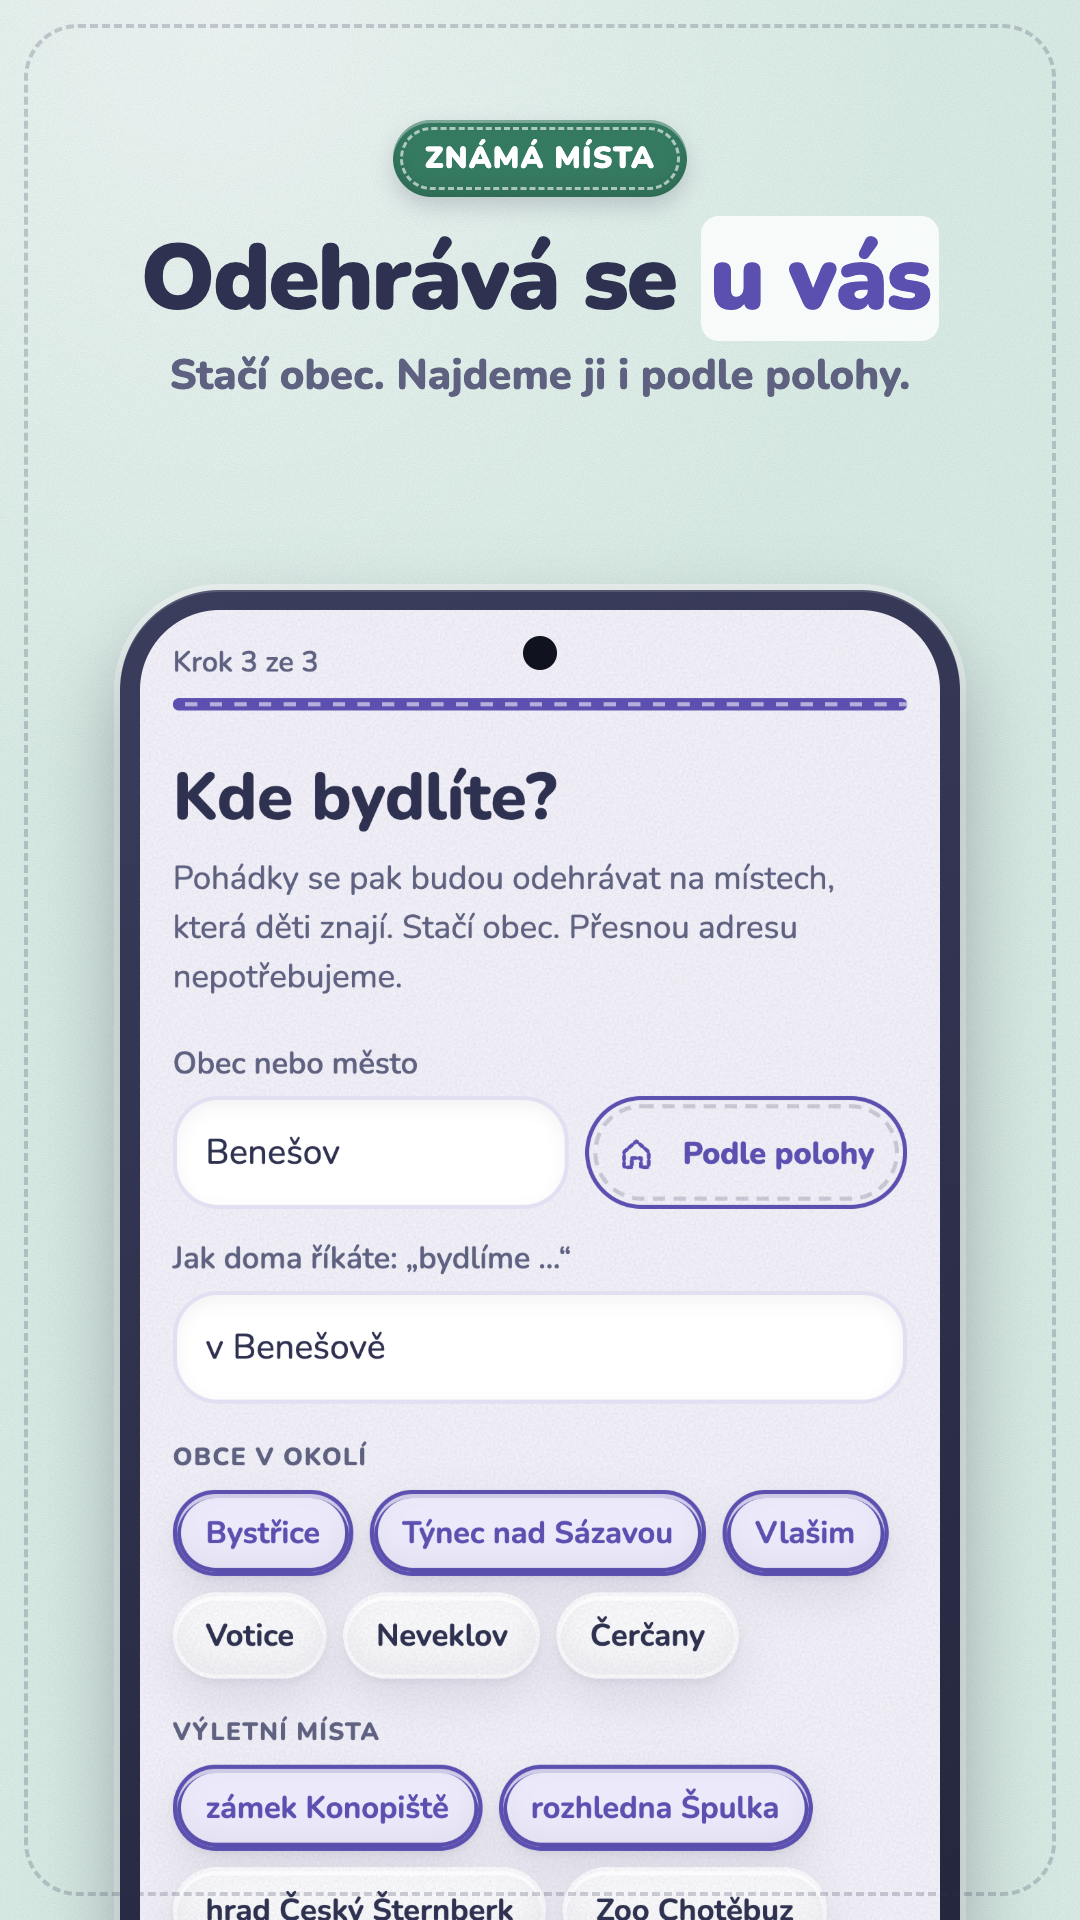
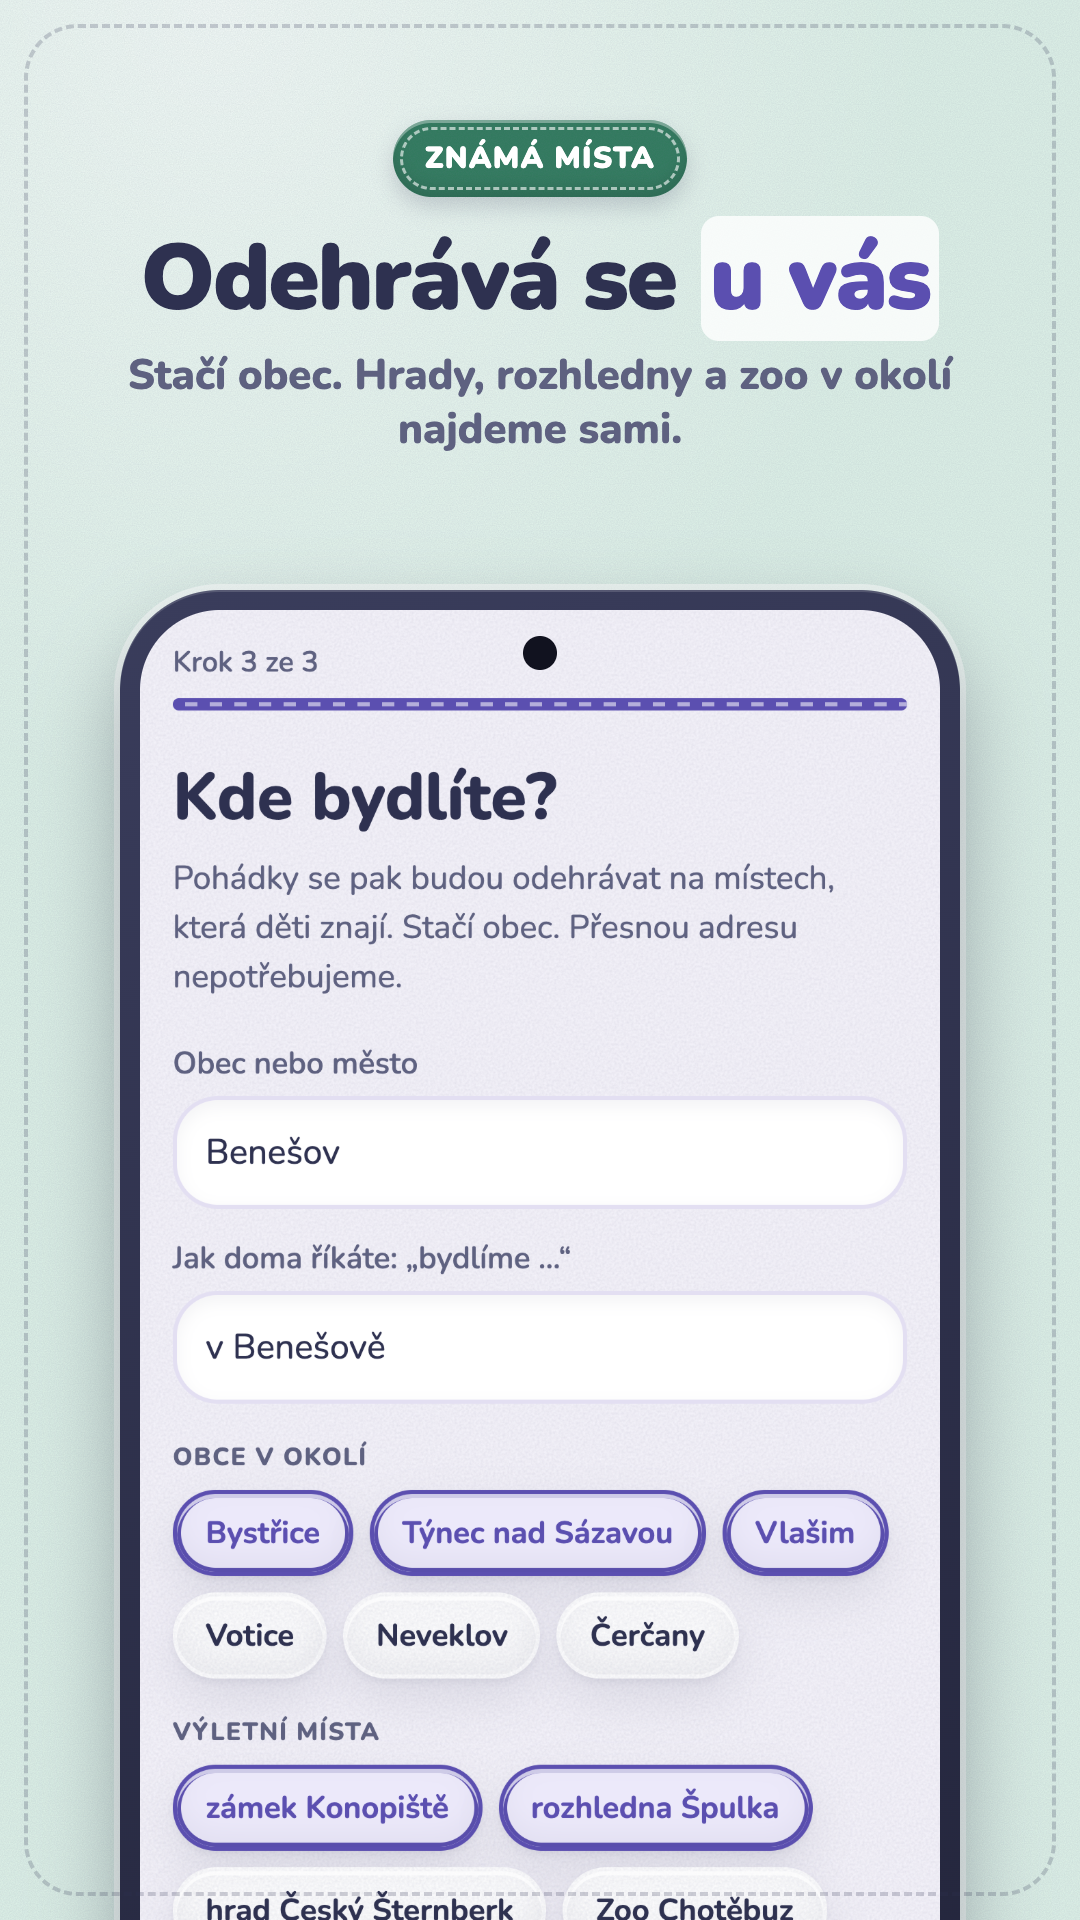
Android 1.25 (versionCode 27): bez polohy, instalace i na tablety
Google Play nepustil 1.24 ke kontrole: aplikace pro děti do 13 let nesmí mít polohu na pozadí
a na Androidu 7–9 se tak počítá i přibližná poloha. Aplikace pro Android polohu nemá
(oprávnění odebraná i z doplňků), tlačítko Podle polohy zůstává na iPhonu a webu.
Zámek na výšku už nevyžaduje hardware na výšku, takže aplikace jde zase na tablety.
Ochrana osobních údajů 4.2, náhled bydliště pro Google Play bez polohy.

Changed region(s): [[0.1222, 0.1875, 0.8861, 0.25], [0.5194, 0.5625, 0.8556, 0.625]]

diff --git a/ochrana-osobnich-udaju/index.html b/ochrana-osobnich-udaju/index.html
@@ -43,13 +43,13 @@
   <main class="terms">
     <div class="wrap wrap-narrow">
       <h1>Ochrana osobních údajů</h1>
-      <p class="meta">Verze 4.1 · účinné od 17. 11. 2026</p>
+      <p class="meta">Verze 4.2 · účinné od 19. 11. 2026</p>
 
       <section class="summary" aria-labelledby="kratce">
         <h2 id="kratce">Krátce a lidsky</h2>
         <ul>
           <li>Chceme jen to, co pohádka potřebuje: křestní jméno, věk, pár oblíbených věcí a obec. Příjmení, přesnou adresu ani fotky nechceme.</li>
-          <li>Obec můžete nechat najít podle polohy telefonu (tlačítko <i>Podle polohy</i>). Teprve po klepnutí a s vaším povolením si aplikace zjistí přibližnou polohu, zaokrouhlí ji asi na 100 metrů a pošle ji jen OpenStreetMap, aby zjistila název obce. Polohu neukládáme, zůstane jen obec.</li>
+          <li>V aplikaci pro iPhone můžete obec nechat najít podle polohy telefonu (tlačítko <i>Podle polohy</i>). Aplikace pro Android polohu od verze 1.25 nezjišťuje vůbec, obec se v ní píše ručně. Teprve po klepnutí a s vaším povolením si aplikace zjistí přibližnou polohu, zaokrouhlí ji asi na 100 metrů a pošle ji jen OpenStreetMap, aby zjistila název obce. Polohu neukládáme, zůstane jen obec.</li>
           <li>Na našem serveru v EU vedeme váš účet: křestní jména a věk dětí a obec, abychom vám mohli pomoct, když napíšete podpoře. Oblíbené věci, jména blízkých a domácích mazlíčků a místa v okolí zůstávají jen v aplikaci ve vašem telefonu. Z nastavení aplikace k účtu ukládáme jen volby a počty (třeba vzhled, zda máte zapnutou připomínku, kolik máte blízkých), ne jejich obsah. Na Androidu je od verze 1.21 nedáváme ani do zálohy telefonu u Googlu.</li>
           <li>Statistiky poslechu (které pohádky posloucháte, jak dlouho a jak se vám líbily, pokud je po dohrání ohodnotíte) přiřazujeme k vaší rodině jen s vaším souhlasem. Bez něj je počítáme jen anonymně. Souhlas zapnete a vypnete v nastavení aplikace.</li>
           <li>Aby pohádku přečetl hlas, posíláme její text (i se jménem dítěte, případně blízkých nebo mazlíčka) poskytovateli syntetického hlasu. Namluvené věty ukládáme bez vazby na účet a použijeme je znovu pro každou rodinu, kde zazní stejná věta, třeba „Dobrou noc, Toníku.“ K účtu si zapisujeme jen to, kolik vět se kvůli vám nově namluvilo a kolikrát jste změnili jména dětí nebo obec, abychom znali náklady na hlas.</li>
@@ -97,7 +97,7 @@
             <tr><td>Křestní jméno dítěte a jeho tvary pro skloňování, pohlaví, věk, oblíbené jídlo a zvíře</td><td>Aby pohádka byla o vašem dítěti a hodila se k jeho věku</td><td>Plnění smlouvy (čl.&nbsp;6 odst.&nbsp;1 písm.&nbsp;b GDPR)</td></tr>
             <tr><td>Role a případně křestní jména rodičů, sourozenců a dalších blízkých a jména domácích mazlíčků (např. „maminka Petra“, „pejsek Rex“)</td><td>Aby v pohádce vystupovala vaše rodina, včetně sourozenců, tety, strýčka a mazlíčků</td><td>Plnění smlouvy</td></tr>
             <tr><td>Obec bydliště a vybraná místa v okolí</td><td>Aby se pohádka odehrávala v místech, která dítě zná</td><td>Plnění smlouvy</td></tr>
-            <tr><td>Přibližná poloha telefonu, jen když klepnete na <i>Podle polohy</i> a polohu v telefonu povolíte. Zaokrouhlí se asi na 100 metrů, neukládáme ji.</td><td>Zjištění názvu vaší obce, abyste ji nemuseli psát</td><td>Plnění smlouvy na vaši žádost</td></tr>
+            <tr><td>Přibližná poloha telefonu, jen v aplikaci pro iPhone, když klepnete na <i>Podle polohy</i> a polohu v telefonu povolíte (aplikace pro Android polohu od verze 1.25 nezjišťuje). Zaokrouhlí se asi na 100 metrů, neukládáme ji.</td><td>Zjištění názvu vaší obce, abyste ji nemuseli psát</td><td>Plnění smlouvy na vaši žádost</td></tr>
             <tr><td>Anonymní identifikátor účtu. Vytvoří ho aplikace sama, bez e-mailu, jména a hesla.</td><td>Uložení údajů rodiny na serveru, spárování s předplatným</td><td>Plnění smlouvy</td></tr>
             <tr><td>Údaje o předplatném a platbách (tarif, identifikátor nákupu v obchodě, data a částky plateb, země obchodu, stav, zkušební doba, zrušení obnovení, vrácení peněz). Platby přijímá jen obchod s aplikacemi (App Store, Google Play), číslo karty ani jiné platební údaje nevidíme.</td><td>Vyúčtování, účetnictví, reklamace</td><td>Plnění smlouvy; právní povinnost (čl.&nbsp;6 odst.&nbsp;1 písm.&nbsp;c) u účetních dokladů</td></tr>
             <tr><td>Uplatněný kód nebo kupón pro odemčení Ospalek Plus: který kód, z jaké kampaně, kdy a do kdy platí, a počet neúspěšných pokusů o zadání kódu za poslední hodinu</td><td>Odemčení předplatného bez platby (recenze aplikace v obchodech, dárky, partneři) a ochrana kódů proti hádání</td><td>Plnění smlouvy; oprávněný zájem (čl.&nbsp;6 odst.&nbsp;1 písm.&nbsp;f)</td></tr>
@@ -138,7 +138,7 @@
             <tr><td>Cloudflare</td><td>Text, který se posílá k přečtení, a technické údaje; u přihlášené aplikace i anonymní identifikátor účtu, aby se nově namluvená věta započítala k vašemu účtu (identifikátor se s nahrávkou neukládá); při večerní připomínce adresa zařízení u služby upozornění a zašifrovaná zpráva</td><td>Bezpečné předání textu hlasové službě, ukládání hotových nahrávek a odeslání večerních upozornění</td></tr>
             <tr><td>Služby upozornění výrobců telefonů: Google (Firebase Cloud Messaging) a Apple (Apple Push Notification service), podle toho, jaký telefon používáte</td><td>Zašifrovanou zprávu upozornění a adresu zařízení. Obsah zprávy nepřečtou.</td><td>Doručení večerní připomínky, jen když si ji zapnete</td></tr>
             <tr><td>GitHub (GitHub Pages)</td><td>Technické údaje, například IP adresu</td><td>Hosting webu ospalek.cz; mobilní aplikace odtud stahuje nahrávky pohádek a aktuální seznam pohádek</td></tr>
-            <tr><td>OpenStreetMap (Nominatim)</td><td>Souřadnice zaokrouhlené asi na 100 metrů, jen když klepnete na <i>Podle polohy</i>, a technické údaje, například IP adresu</td><td>Zjištění názvu obce z polohy telefonu</td></tr>
+            <tr><td>OpenStreetMap (Nominatim)</td><td>Souřadnice zaokrouhlené asi na 100 metrů, jen když v aplikaci pro iPhone klepnete na <i>Podle polohy</i>, a technické údaje, například IP adresu</td><td>Zjištění názvu obce z polohy telefonu</td></tr>
             <tr><td>Supabase (databáze, server v EU – Irsko)</td><td>Křestní jména, pohlaví a věk dětí, obec, údaje o poslechu a zařízení, uplatněné kódy a kupóny. Při stažení aktuálního seznamu pohádek jen technické údaje, například IP adresu.</td><td>Uložení údajů na serveru a anonymní účet. Aktuální seznam pohádek pro aplikaci.</td></tr>
             <tr><td>Anthropic (Claude, generování textu)</td><td>Jen zadání nové pohádky od našeho týmu (kategorie, o čem má být, délka, případně poznámky k úpravám) a názvy existujících pohádek. Žádné údaje o rodinách ani dětech.</td><td>Návrh textu nových pohádek. Tým každý text před zveřejněním přečte, upraví a schválí.</td></tr>
             <tr><td>Google (přihlášení přes Google) a Apple (přihlášení přes Apple)</td><td>Jen když se sami přihlásíte: Google nebo Apple nám potvrdí vaši totožnost a předá e-mail. My jim neposíláme nic o vašem dítěti ani poslechu.</td><td>Ověření přihlášení. Google i Apple jsou při přihlášení samostatnými správci podle svých zásad.</td></tr>
@@ -197,6 +197,7 @@
         <table class="tbl">
           <thead><tr><th>Verze</th><th>Datum</th><th>Co se změnilo</th></tr></thead>
           <tbody>
+            <tr><td>4.2</td><td>19. 11. 2026</td><td>Aplikace pro Android od verze 1.25 nezjišťuje polohu telefonu (Google Play ji u aplikací pro děti nepovoluje). Obec podle polohy jde najít jen v aplikaci pro iPhone.</td></tr>
             <tr><td>4.1</td><td>17. 11. 2026</td><td>Sourozenci, teta, strýček a mazlíčci z rodiny se objevují i v pohádkách. Věty s jejich jmény proto jdou k přečtení poskytovateli syntetického hlasu stejně jako jméno dítěte. Jména dál zůstávají jen v aplikaci v telefonu.</td></tr>
             <tr><td>4.0</td><td>17. 11. 2026</td><td>Aplikace pro Android od verze 1.21 nedává údaje o rodině do zálohy telefonu na Disk Google. Starší verze je do ní zahrnovaly, pokud byla záloha v telefonu zapnutá.</td></tr>
             <tr><td>3.9</td><td>16. 11. 2026</td><td>Do rodiny v aplikaci jde přidat i tetu, strýčka, sourozence a domácího mazlíčka (pejska, kočičku), volitelně se jménem. Jména zůstávají jen v aplikaci v telefonu, na server jde dál jen počet blízkých.</td></tr>

diff --git a/marketing/google-play/_zdroj/grafika.html b/marketing/google-play/_zdroj/grafika.html
@@ -72,7 +72,7 @@
   const SHOTS = [
     { t: '', patch: 'Pohádky na dobrou noc', h: 'Hlavním hrdinou je <span class="kid">vaše dítě</span>', sub: 'S jeho jménem, ve vašem městě', img: 'knihovna' },
     { t: 'night', patch: 'Čte teta Terezka', h: 'Zhasněte a poslouchejte', sub: 'Klidný hlas vypravěčky a tichá hudba. Text se zvýrazňuje.', img: 'prehravac', mascot: ['web/ospalek-spi.webp', 'm-sleep'] },
-    { t: 'mint', patch: 'Známá místa', h: 'Odehrává se <span class="kid">u vás</span>', sub: 'Stačí obec. Najdeme ji i podle polohy.', img: 'bydliste' },
+    { t: 'mint', patch: 'Známá místa', h: 'Odehrává se <span class="kid">u vás</span>', sub: 'Stačí obec. Hrady, rozhledny a zoo v okolí najdeme sami.', img: 'bydliste' },
     { t: 'peach', patch: 'Česky a správně', h: 'Jméno zní pokaždé správně', sub: '<span class="kid">Toník</span>, bez <span class="kid">Toníka</span>, pomůžeš mi, <span class="kid">Toníku</span>?', img: 'dite' },
     { t: '', patch: 'Celá rodina', h: 'Sourozenci, maminka i&nbsp;táta', sub: 'Každý dostane v pohádce svou roli', img: 'rodina', mascot: ['web/ospalek-hlava.webp', 'm-right'] },
     { t: 'honey', patch: 'Ze života', h: 'Zítra k&nbsp;zubaři? Dnes pohádka', sub: 'Příběhy, které dodají kousek odvahy', img: 'prehravac-den', bubble: '„Otevři pusu jako krokodýl!“' },
@@ -83,7 +83,7 @@
   const SK = [
     { patch: 'Rozprávky na dobrú noc', h: 'Hlavným hrdinom je <span class="kid">vaše dieťa</span>', sub: 'S jeho menom, vo vašom meste' },
     { patch: 'Číta teta Terezka', h: 'Zhasnite a počúvajte', sub: 'Pokojný hlas rozprávačky a tichá hudba. Text sa zvýrazňuje.' },
-    { patch: 'Známe miesta', h: 'Odohráva sa <span class="kid">u vás</span>', sub: 'Stačí obec. Nájdeme ju aj podľa polohy.' },
+    { patch: 'Známe miesta', h: 'Odohráva sa <span class="kid">u vás</span>', sub: 'Stačí obec. Hrady, rozhľadne a zoo v okolí nájdeme sami.' },
     { patch: 'Vždy správne', h: 'Meno znie zakaždým správne', sub: 'Všetky pády navrhne aplikácia, vy ich len skontrolujete.' },
     { patch: 'Celá rodina', h: 'Súrodenci, mama aj&nbsp;otec', sub: 'Každý dostane v rozprávke svoju rolu' },
     { patch: 'Zo života', h: 'Zajtra k&nbsp;zubárovi? Dnes rozprávka', sub: 'Príbehy, ktoré dodajú kúsok odvahy', bubble: '„Otvor ústa ako krokodíl!“' },

diff --git a/app/app.js b/app/app.js
@@ -601,12 +601,16 @@ function remindSettings() {
     ${on ? '<button class="btn small ghost" data-a="remindOff">Vypnout</button>' : `<button class="btn small" data-a="remindYes"${blocked ? ' disabled' : ''}>Zapnout</button>`}</div>`;
 }
 
+// Obec podle polohy: na iPhonu a na webu ano, v aplikaci pro Android ne (Google Play u aplikací pro děti polohu nepovolí,
+// manifest ji od verze 1.25 nemá, viz mobile/android/app/src/main/AndroidManifest.xml)
+const LOCATION_ON = !(window.Capacitor && Capacitor.isNativePlatform && Capacitor.isNativePlatform() && Capacitor.getPlatform() === 'android');
+
 function homeForm() {
   const h = S.family.home;
   const chips = (opts, sel, kind) => opts.map((o, i) => `<button class="chip ${sel.includes(o) ? 'on' : ''}" data-a="toggleSpot" data-kind="${kind}" data-i="${i}">${esc(o)}</button>`).join('');
   return `
     <label for="town">Obec nebo město</label>
-    <div class="row"><input id="town" maxlength="${LIMIT.place}" placeholder="např. Benešov" value="${esc(h.town)}" autocomplete="address-level2"><button class="btn small ghost" style="flex:0 0 auto" data-a="useLocation">${I.home} Podle polohy</button></div>
+    ${LOCATION_ON ? `<div class="row"><input id="town" maxlength="${LIMIT.place}" placeholder="např. Benešov" value="${esc(h.town)}" autocomplete="address-level2"><button class="btn small ghost" style="flex:0 0 auto" data-a="useLocation">${I.home} Podle polohy</button></div>` : `<input id="town" maxlength="${LIMIT.place}" placeholder="např. Benešov" value="${esc(h.town)}" autocomplete="address-level2">`}
     <label for="inTown">Jak doma říkáte: „bydlíme …“</label>
     <input id="inTown" maxlength="${LIMIT.place + 4}" placeholder="v Benešově" value="${esc(h.inTown)}">
     <div id="spotsMsg" class="note" style="margin-top:8px"></div>

diff --git a/app/index.html b/app/index.html
@@ -67,6 +67,6 @@
   <script src="daily.js?v=1"></script>
   <script src="billing.js?v=5"></script>
   <script src="media.js?v=6"></script>
-  <script src="app.js?v=69"></script>
+  <script src="app.js?v=70"></script>
 </body>
 </html>
